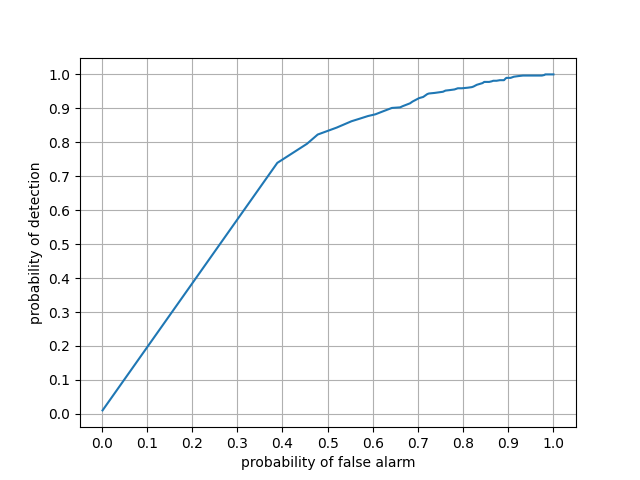
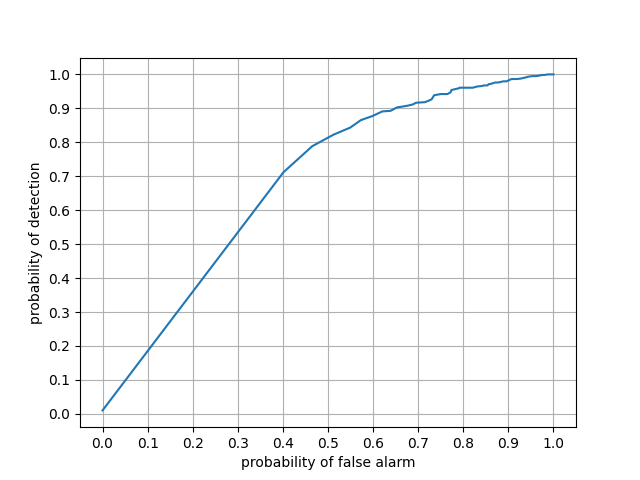
confuser rejection

diff --git a/src/confuser-rejection.py b/src/confuser-rejection.py
@@ -8,6 +8,7 @@ import matplotlib.pyplot as plt
 import torchvision.transforms as transforms
 
 import numpy as np
+import shutil
 import torch
 import json
 import os
@@ -98,20 +99,71 @@ def training(epochs, experiments_path, lr, m, model_name, training_set):
             lr = m.lr_scheduler.get_last_lr()[0]
             m.lr_scheduler.step()
 
-        # logging and save the model
-        logging.info(f'Epoch: {epoch + 1:03d}/{epochs:03d} | loss={np.mean(_loss):.4f} | lr={lr} | ')
-
         hist['loss'].append(np.mean(_loss))
 
         if experiments_path:
             m.save(os.path.join(experiments_path, model_name, f'model-{epoch + 1:03d}.pth'))
+
+        acc = validation(1, 3, os.path.join(experiments_path, model_name, f'model-{epoch + 1:03d}.pth'))
+        # logging and save the model
+        logging.info(f'Epoch: {epoch + 1:03d}/{epochs:03d} | loss={np.mean(_loss):.4f} | lr={lr} | accuracy={acc}')
+
     return hist
+
+
+@torch.no_grad()
+def validation(batch_size, num_classes, model_path=None):
+    # Data set
+    test_set, num_known, num_confuser = load_data(FLAGS.data_path, is_train=False, batch_size=batch_size)
+
+    # Model
+    m = model.Model(classes=num_classes)
+    m.load(model_path)
+
+    num_data = 0
+    corrects = 0
+    # Test loop
+    m.net.eval()
+    for i, data in enumerate(tqdm(test_set)):
+        images, labels = data
+        if labels[:, 0].item() > 3:
+            continue
+
+        predictions = m.inference(images)
+
+        _, predictions = torch.max(predictions.data, 1)
+        labels = labels.type(torch.LongTensor)
+
+        num_data += labels.size(0)
+        corrects += (predictions == labels[:, 0].to(m.device)).sum().item()
+
+    accuracy = 100 * corrects / num_data
+    logging.info(f'Accuracy : {accuracy}%')
+    return accuracy
+
+
+@torch.no_grad()
+def early_stop(epochs, batch_size, num_classes, model_name, experiments_path=None):
+    best = {
+        'accuracy': 0,
+        'epoch': 0
+    }
+    for epoch in range(1, epochs + 1):
+        accuracy = validation(batch_size, num_classes,
+                              os.path.join(experiments_path, model_name, f'model-{epoch:03d}.pth'))
+        best = max([best, {'accuracy': accuracy, 'epoch': epoch}], key=lambda x: x['accuracy'])
+
+    logging.info(f'Best accuracy[{best["accuracy"]}%] is achieved at {best["epoch"]}')
+    shutil.copy(
+        os.path.join(experiments_path, model_name, f'model-{best["epoch"]:03d}.pth'),
+        os.path.join(experiments_path, model_name, f'model-best.pth'),
+    )
 
 
 def run_training(epochs, batch_size, momentum, lr, lr_step, lr_decay, weight_decay, num_classes, model_name,
                  experiments_path=None):
     # Data set
-    training_set = load_data(FLAGS.data_path, is_train=True, batch_size=batch_size)
+    training_set, num_known, num_confuser = load_data(FLAGS.data_path, is_train=True, batch_size=batch_size)
 
     # Model
     m = model.Model(
@@ -149,8 +201,9 @@ def main(_):
         os.makedirs(os.path.join(experiments_path, model_name), exist_ok=True)
         run_training(epochs, batch_size, momentum, lr, lr_step, lr_decay, weight_decay,
                      num_classes, model_name, experiments_path)
+        early_stop(epochs, 1, num_classes, model_name, experiments_path)
 
-    confuser_rejection(num_classes, os.path.join(experiments_path, model_name, f'model-{epochs:03d}.pth'))
+    confuser_rejection(num_classes, os.path.join(experiments_path, model_name, f'model-best.pth'))
 
 
 if __name__ == '__main__':
